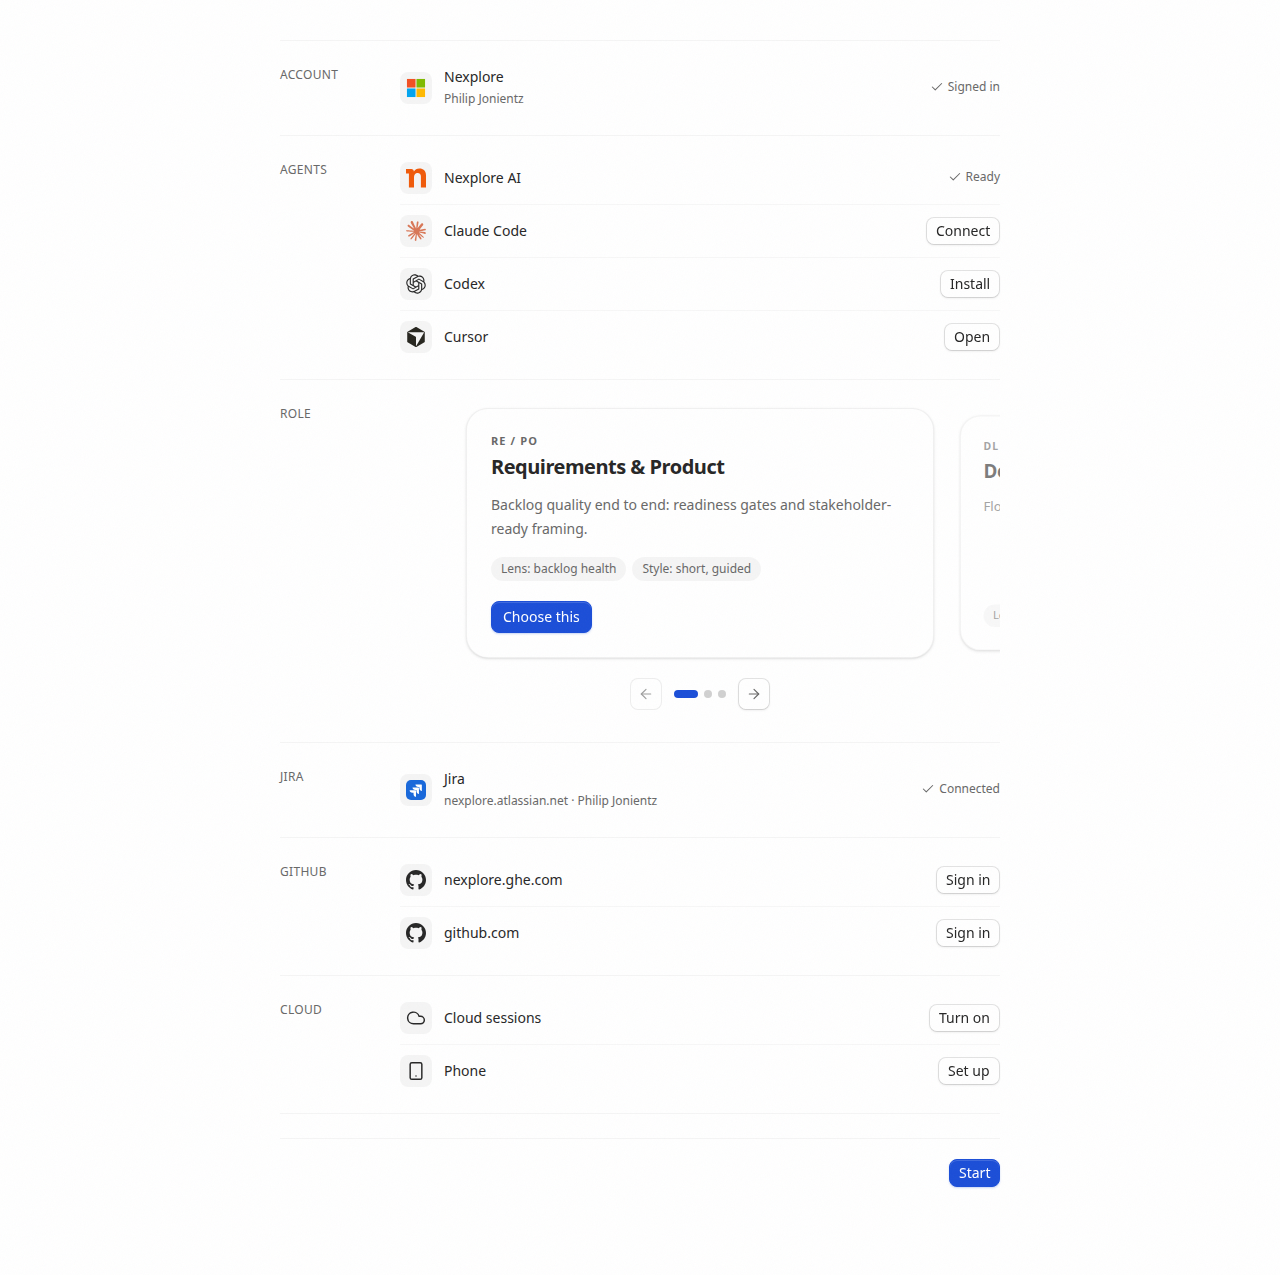
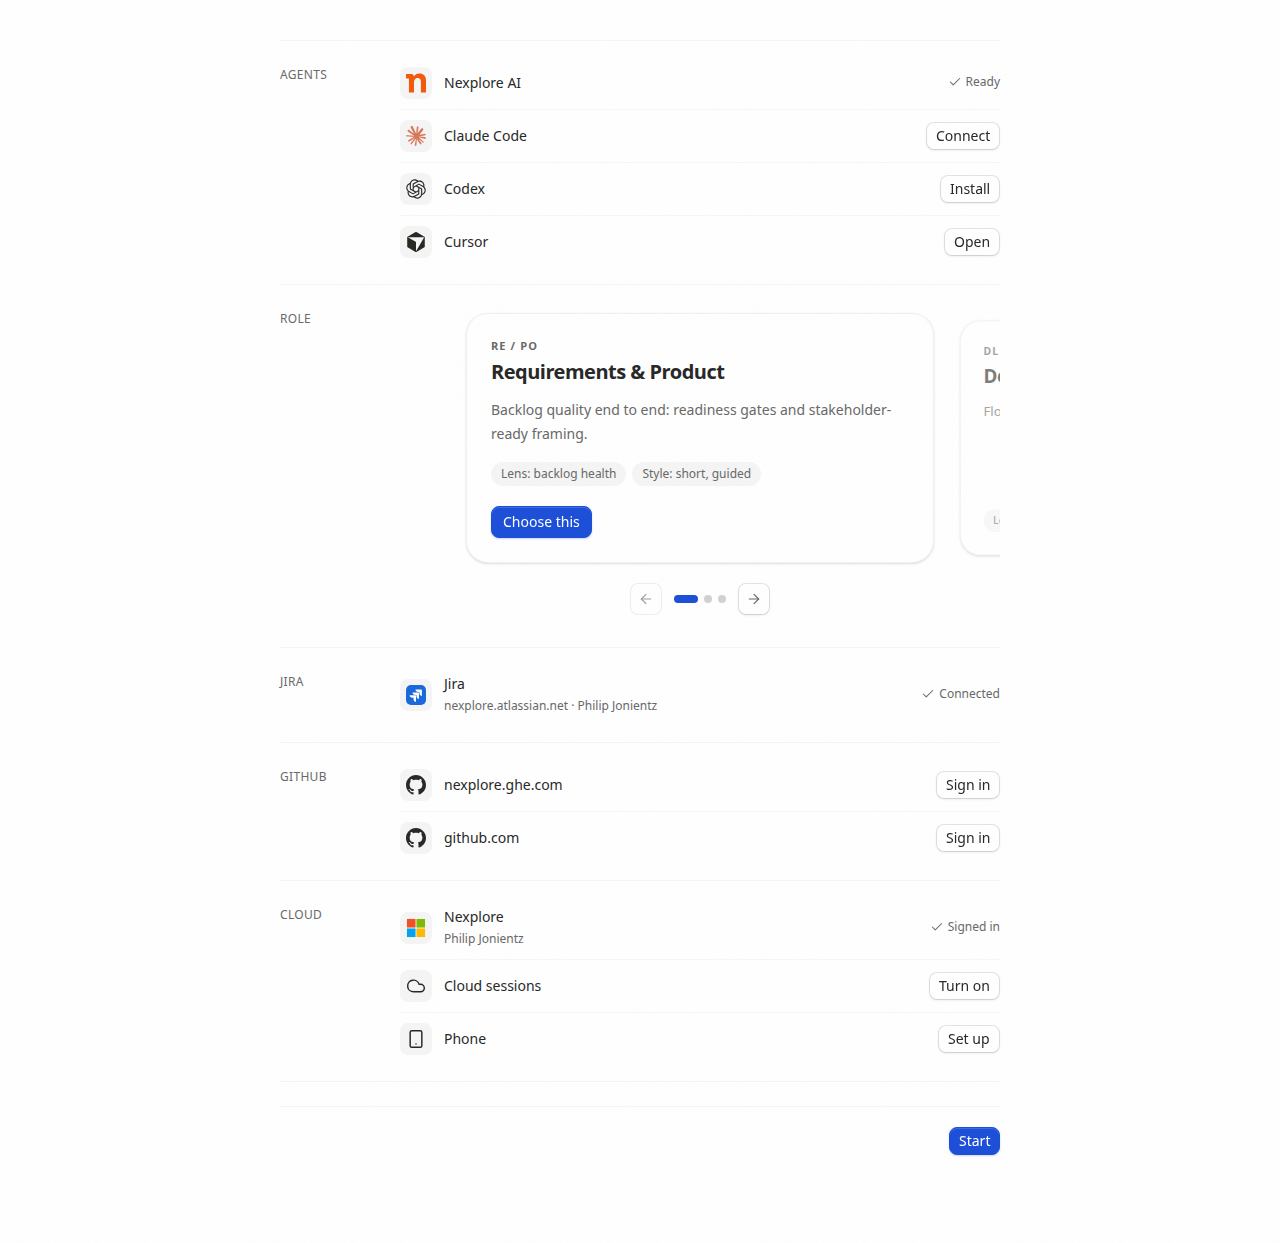
feat(web): merge Account into Cloud on welcome mockups
Entra sign-in lives in Cloud (Microsoft mark left, calm enable hint),
followed by Cloud sessions and Phone locked until signed in. Drops the
separate Account section; updates Cloud/Entra stories and evidence.

diff --git a/apps/web/src/t3team/stories/welcome/t3team-NexiWelcomeCloudPhone.stories.tsx b/apps/web/src/t3team/stories/welcome/t3team-NexiWelcomeCloudPhone.stories.tsx
@@ -1,47 +1,62 @@
 import type { Meta, StoryObj } from "@storybook/react";
 
-import { CloudPhoneBlock, SectionFrame } from "./t3team-NexiWelcomeScenario.fixtures";
+import { CloudBlock, SectionFrame } from "./t3team-NexiWelcomeScenario.fixtures";
 
 /**
- * Cloud sessions + phone — locked without Entra, opt-in when signed in, on with
- * CloudSessionSetupCard (Cloud/CloudSessionSetupCard).
+ * Cloud section — Entra sign-in first (enables cloud), then cloud sessions + phone.
  */
 const meta = {
-  title: "T3Team/Welcome/Cloud & Phone",
+  title: "T3Team/Welcome/Cloud",
   parameters: { layout: "fullscreen" },
 } satisfies Meta;
 
 export default meta;
 type Story = StoryObj;
 
-export const LockedNeedsSignIn: Story = {
+export const SignedOutLocked: Story = {
   render: () => (
-    <SectionFrame title="Cloud & phone">
-      <CloudPhoneBlock state="locked" entraSignedIn={false} />
+    <SectionFrame title="Cloud">
+      <CloudBlock account="signedOut" cloudPhone="locked" />
     </SectionFrame>
   ),
 };
 
-export const OptIn: Story = {
+export const WaitingForCode: Story = {
   render: () => (
-    <SectionFrame title="Cloud & phone">
-      <CloudPhoneBlock state="optIn" entraSignedIn />
+    <SectionFrame title="Cloud">
+      <CloudBlock account="waitingForCode" cloudPhone="locked" />
     </SectionFrame>
   ),
 };
 
-export const On: Story = {
+export const SignedInOptIn: Story = {
   render: () => (
-    <SectionFrame title="Cloud & phone">
-      <CloudPhoneBlock state="on" entraSignedIn />
+    <SectionFrame title="Cloud">
+      <CloudBlock account="signedIn" cloudPhone="optIn" />
+    </SectionFrame>
+  ),
+};
+
+export const SignedInOn: Story = {
+  render: () => (
+    <SectionFrame title="Cloud">
+      <CloudBlock account="signedIn" cloudPhone="on" />
+    </SectionFrame>
+  ),
+};
+
+export const ServerUnreachable: Story = {
+  render: () => (
+    <SectionFrame title="Cloud">
+      <CloudBlock account="serverUnreachable" cloudPhone="locked" />
     </SectionFrame>
   ),
 };
 
 export const Skipped: Story = {
   render: () => (
-    <SectionFrame title="Cloud & phone">
-      <CloudPhoneBlock state="skipped" entraSignedIn />
+    <SectionFrame title="Cloud">
+      <CloudBlock account="signedIn" cloudPhone="skipped" />
     </SectionFrame>
   ),
 };

diff --git a/apps/web/src/t3team/stories/welcome/t3team-NexiWelcomeAccount.stories.tsx b/apps/web/src/t3team/stories/welcome/t3team-NexiWelcomeAccount.stories.tsx
@@ -1,13 +1,13 @@
 import type { Meta, StoryObj } from "@storybook/react";
 
-import { AccountBlock, SectionFrame } from "./t3team-NexiWelcomeScenario.fixtures";
+import { CloudBlock, SectionFrame } from "./t3team-NexiWelcomeScenario.fixtures";
 
 /**
- * Nexplore (Entra) account section — reuses AccountSignInCard states from
- * Account/AccountSignInCard stories inside the welcome band layout.
+ * Entra sign-in states inside the Cloud section (merged with cloud sessions / phone).
+ * Prefer T3Team/Welcome/Cloud for the full section; these keep per-auth-state coverage.
  */
 const meta = {
-  title: "T3Team/Welcome/Account",
+  title: "T3Team/Welcome/Cloud/Entra",
   parameters: { layout: "fullscreen" },
 } satisfies Meta;
 
@@ -16,40 +16,40 @@ type Story = StoryObj;
 
 export const SignedOut: Story = {
   render: () => (
-    <SectionFrame title="Account">
-      <AccountBlock state="signedOut" />
+    <SectionFrame title="Cloud">
+      <CloudBlock account="signedOut" cloudPhone="locked" />
     </SectionFrame>
   ),
 };
 
 export const WaitingForCode: Story = {
   render: () => (
-    <SectionFrame title="Account">
-      <AccountBlock state="waitingForCode" />
+    <SectionFrame title="Cloud">
+      <CloudBlock account="waitingForCode" cloudPhone="locked" />
     </SectionFrame>
   ),
 };
 
 export const SignedIn: Story = {
   render: () => (
-    <SectionFrame title="Account">
-      <AccountBlock state="signedIn" />
+    <SectionFrame title="Cloud">
+      <CloudBlock account="signedIn" cloudPhone="optIn" />
     </SectionFrame>
   ),
 };
 
 export const ServerUnreachable: Story = {
   render: () => (
-    <SectionFrame title="Account">
-      <AccountBlock state="serverUnreachable" />
+    <SectionFrame title="Cloud">
+      <CloudBlock account="serverUnreachable" cloudPhone="locked" />
     </SectionFrame>
   ),
 };
 
 export const Skipped: Story = {
   render: () => (
-    <SectionFrame title="Account">
-      <AccountBlock state="skipped" />
+    <SectionFrame title="Cloud">
+      <CloudBlock account="skipped" cloudPhone="skipped" />
     </SectionFrame>
   ),
 };

diff --git a/apps/web/src/t3team/stories/welcome/t3team-NexiWelcomeSections.fixtures.tsx b/apps/web/src/t3team/stories/welcome/t3team-NexiWelcomeSections.fixtures.tsx
@@ -85,12 +85,14 @@ function AgentItem({
   );
 }
 
+/** Entra sign-in row — left Microsoft mark only; enables cloud features. */
 export function AccountBlock({ state }: { readonly state: AccountStoryState }) {
   const mark = (
     <ServiceMark label="Nexplore">
       <MicrosoftEntraMark />
     </ServiceMark>
   );
+  const enableHint = "Cloud sessions, phone, and threads across devices.";
 
   if (state === "skipped") {
     return (
@@ -138,8 +140,26 @@ export function AccountBlock({ state }: { readonly state: AccountStoryState }) {
     <WelcomeItem
       mark={mark}
       title="Nexplore"
+      description={enableHint}
       action={<PrimaryAction onClick={noop}>Sign in</PrimaryAction>}
     />
+  );
+}
+
+/** Cloud section: Entra first, then cloud sessions + phone. */
+export function CloudBlock({
+  account,
+  cloudPhone,
+}: {
+  readonly account: AccountStoryState;
+  readonly cloudPhone: CloudPhoneStoryState;
+}) {
+  const entraSignedIn = account === "signedIn";
+  return (
+    <>
+      <AccountBlock state={account} />
+      <CloudPhoneBlock state={cloudPhone} entraSignedIn={entraSignedIn} />
+    </>
   );
 }
 
@@ -353,12 +373,12 @@ export function CloudPhoneBlock({
         <WelcomeItem
           mark={cloudMark}
           title="Cloud sessions"
-          status={<StatusLabel status="locked" label="Needs Nexplore sign-in" />}
+          status={<StatusLabel status="locked" label="Needs sign-in" />}
         />
         <WelcomeItem
           mark={phoneMark}
           title="Phone"
-          status={<StatusLabel status="locked" label="Needs Nexplore sign-in" />}
+          status={<StatusLabel status="locked" label="Needs sign-in" />}
         />
       </>
     );

diff --git a/apps/web/src/t3team/stories/welcome/t3team-NexiWelcomeScenario.fixtures.tsx b/apps/web/src/t3team/stories/welcome/t3team-NexiWelcomeScenario.fixtures.tsx
@@ -2,9 +2,8 @@ import type { ReactNode } from "react";
 
 import { StartFooter, WelcomePageShell, WelcomeSection } from "./t3team-NexiWelcomeLayout.fixtures";
 import {
-  AccountBlock,
   AgentsBlock,
-  CloudPhoneBlock,
+  CloudBlock,
   GitHubBlock,
   JiraBlock,
   RoleBlock,
@@ -107,14 +106,10 @@ const noop = () => {};
 
 /** First-run general setup only — rows + Start, no page chrome. */
 export function NexiWelcomePageMockup({ scenario }: { readonly scenario: WelcomeScenario }) {
-  const entraSignedIn = scenario.account === "signedIn";
   const agentReady = scenario.agents === "ready";
   return (
     <WelcomePageShell narrow={scenario.narrow}>
       <div className="border-t border-border/50">
-        <WelcomeSection title="Account">
-          <AccountBlock state={scenario.account} />
-        </WelcomeSection>
         <WelcomeSection title="Agents">
           <AgentsBlock state={scenario.agents} />
         </WelcomeSection>
@@ -130,7 +125,7 @@ export function NexiWelcomePageMockup({ scenario }: { readonly scenario: Welcome
           <GitHubBlock state={scenario.github} />
         </WelcomeSection>
         <WelcomeSection title="Cloud">
-          <CloudPhoneBlock state={scenario.cloudPhone} entraSignedIn={entraSignedIn} />
+          <CloudBlock account={scenario.account} cloudPhone={scenario.cloudPhone} />
         </WelcomeSection>
       </div>
       <StartFooter agentReady={agentReady} onStart={noop} onStartWithoutAgent={noop} />
@@ -157,6 +152,7 @@ export function SectionFrame({
 export {
   AccountBlock,
   AgentsBlock,
+  CloudBlock,
   CloudPhoneBlock,
   GitHubBlock,
   JiraBlock,

diff --git a/apps/web/src/t3team/stories/welcome/t3team-NexiWelcomeFinish.stories.tsx b/apps/web/src/t3team/stories/welcome/t3team-NexiWelcomeFinish.stories.tsx
@@ -19,7 +19,6 @@ type FinishItem = {
 };
 
 const ITEMS: readonly FinishItem[] = [
-  { label: "Nexplore", status: "done" },
   { label: "Agents", status: "ready", detail: "Nexplore AI" },
   { label: "Role", status: "skipped" },
   { label: "Jira", status: "skipped" },
@@ -37,7 +36,7 @@ function FinishSummary({ items }: { readonly items: readonly FinishItem[] }) {
               key={item.label}
               mark={
                 <ServiceMark label={item.label}>
-                  {item.label === "Nexplore" ? (
+                  {item.label === "Cloud" ? (
                     <MicrosoftEntraMark />
                   ) : item.label === "Agents" ? (
                     <NexploreAI aria-hidden />

diff --git a/apps/web/src/t3team/stories/welcome/t3team-NexiWelcomePage.stories.tsx b/apps/web/src/t3team/stories/welcome/t3team-NexiWelcomePage.stories.tsx
@@ -23,7 +23,7 @@ type Story = StoryObj<typeof meta>;
 
 export const FreshInstall: Story = { args: { scenario: SCENARIOS.FreshInstall } };
 
-/** Entra WaitingForCode, Jira connected, GHE AwaitingApproval. */
+/** Entra WaitingForCode (in Cloud), Jira connected, GHE AwaitingApproval. */
 export const InProgress: Story = { args: { scenario: SCENARIOS.InProgress } };
 
 export const AllDone: Story = { args: { scenario: SCENARIOS.AllDone } };
